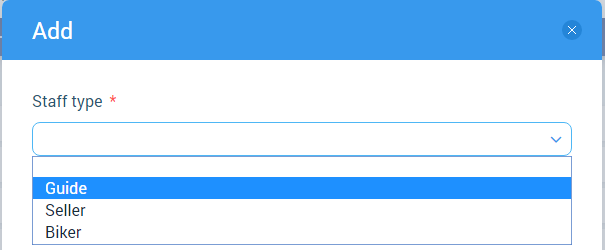
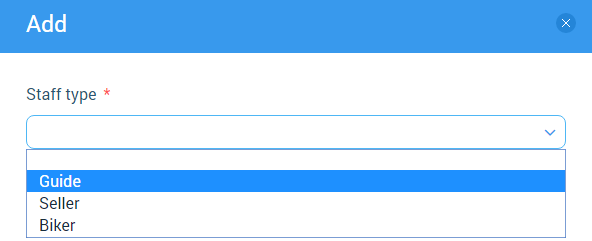
fix article renew pictures

Changed region(s): [[0.0, 0.0, 1.0, 1.0]]

diff --git a/_articles-ru/how_to_assign_employee_for_a_session.md b/_articles-ru/how_to_assign_employee_for_a_session.md
@@ -55,11 +55,13 @@ cat: some
 
 Перейти в "Bookings > Manifest view".
 
+![How_to_assign_employee_for_a_session6](/assets/images/how_to_assign_employee_for_a_session6.png)
+
 ## **Шаг 9**
 
 Кликнуть на плашку сессии. Затем в появившемся блоке "Resources & Staff" кликнуть на иконку "+" и выбрать пункт "+ Staff".
 
-![How_to_assign_employee_for_a_session6](/assets/images/how_to_assign_employee_for_a_session6.png)
+![How_to_assign_employee_for_a_session10](/assets/images/how_to_assign_employee_for_a_session10.png)
 
 ## **Шаг 10**
 

diff --git a/_articles-en/how_to_assign_employee_for_a_session.md b/_articles-en/how_to_assign_employee_for_a_session.md
@@ -55,11 +55,13 @@ On the opened "Settings" tab choose the tours where employee will be assigned. A
 
 Go to "Bookings > Manifest view".
 
+![How_to_assign_employee_for_a_session6](/assets/images/how_to_assign_employee_for_a_session6.png)
+
 ## **Step 9**
 
 Click on the session card. And in the opened "Resources & Staff" block click on the "+" icon and choose "+ Staff" menu item.
 
-![How_to_assign_employee_for_a_session6](/assets/images/how_to_assign_employee_for_a_session6.png)
+![How_to_assign_employee_for_a_session10](/assets/images/how_to_assign_employee_for_a_session10.png)
 
 ## **Step 10**
 
